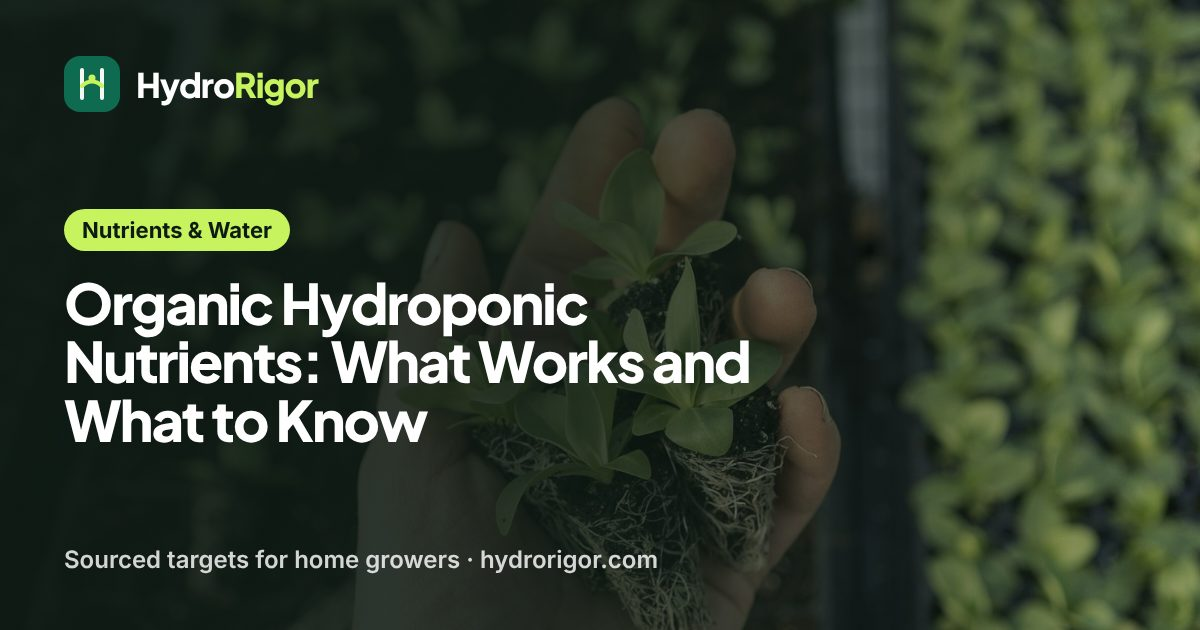
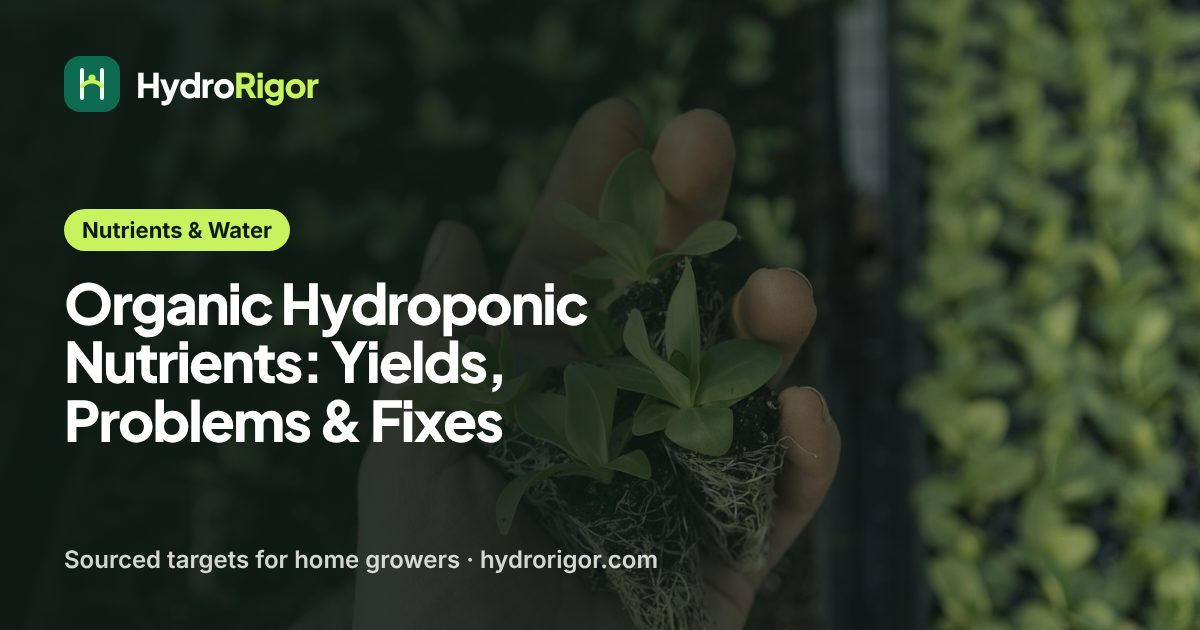
Rebuild organic hydroponic nutrients guide: yields, causes and fixes
Rebuilds /nutrients-water/organic-hydroponic-nutrients/ ("Organic Hydroponic
Nutrients: Yields, Problems & Fixes"): yields versus mineral nutrients from three
trials, the four causes and fixes, comparison table, setup steps, troubleshooting,
FAQ and two new diagrams. Adds Liu et al. 2025 and Purdue HO-309-W, and records
figures for the Alneyadi et al. 2024 study. Ticks queue item 20.

Claude-Session: https://claude.ai/code/session_011zSWQx5QZWaYdCfd2Qc4HU

Changed region(s): [[0.0308, 0.5429, 0.6475, 0.7238]]

diff --git a/src/data/editorial-sources/m06.ts b/src/data/editorial-sources/m06.ts
@@ -300,11 +300,11 @@ export const m06EditorialSources = [
   {
     id: 'psu-organic-nutrient-study',
     title: 'Organic-based nutrient solutions for sustainable vegetable production in a zero-runoff soilless growing system',
-    publisher: 'Penn State Research Portal',
+    publisher: 'Journal of Agriculture and Food Research 15:101035 (Alneyadi, Almheiri, Tzortzakis, Di Gioia, Ahmed; UAE University, Cyprus University of Technology, Penn State, 2024), doi 10.1016/j.jafr.2024.101035, via Penn State Research Portal',
     url: 'https://pure.psu.edu/en/publications/organic-based-nutrient-solutions-for-sustainable-vegetable-produc/',
-    accessedDate: '2026-09-12',
+    accessedDate: '2026-11-15',
     sourceType: 'university-research',
-    locator: 'Peer-reviewed study abstract; crop- and system-specific organic-solution comparison',
+    locator: "Sec. 2.1: romaine lettuce 'Parris Island cos', 60 days, zero-runoff Dutch bucket system (no pumps, 100 L tank, 40 cm pots of 25 L perlite), four liquid organic fertilizers (fish-based, humic-based, amino/alginic) versus a chemical control; all solutions set to EC 2.0 mS/cm (checked every 2 days) and pH 5.5–5.8 (adjusted three times a week). Abstract: shoot fresh weight 175.1 g control, 159.8 g fish-based and 157.9 g alginic-based, other organic solutions lower; all organic solutions gave fewer leaves, smaller leaf area, shorter plants and less fresh biomass; leaf nitrate 3.2–8.7 mg/kg DW organic versus 259.8 inorganic. Table 2: leaf calcium 11.90 mg/g control versus 4.58–6.87 organic; magnesium 2.88 versus 1.43–2.01. Table 4: phenolics 3.22–3.36 g GAE/100 g DW in two organic treatments versus 2.28 inorganic. Sec. 3.5: lower biomass attributed to lower availability of Ca, K and Mg; mineralization must match crop demand",
   },
   {
     id: 'masterblend-mixing-instructions',
@@ -656,6 +656,24 @@ export const m06EditorialSources = [
     accessedDate: '2026-11-07',
     sourceType: 'university-research',
     locator: 'Home bottle method: 4-litre plastic bottle, 7.5-cm net pot, lower 3 cm of the pot in the solution at the start; 5 g of 10-8-22 hydroponic fertilizer in 4 L gives EC 1.5 mS; lettuce ready about 6 weeks from seeding; level usually drops 15–25 cm; a 200-gram lettuce plant uses about 3–4 L; no solution added during the crop; raising the level more than 2 cm after the air gap forms may injure plants; cover or darken the bottle against algae; bottle method suits only short crops like lettuce',
+  },
+  {
+    id: 'liu-organic-nft-lettuce-2025',
+    title: 'Intermittent Flow Alleviated Root Zone Stress and Increased Organic Lettuce Yield in Nutrient Film Technique',
+    publisher: 'HortScience 60(7):1208–1217 (Liu, Masabni, Niu; Texas A&M AgriLife Research, 2025), doi 10.21273/HORTSCI18623-25',
+    url: 'https://journals.ashs.org/downloadpdf/view/journals/hortsci/60/7/article-p1208.pdf',
+    accessedDate: '2026-11-07',
+    sourceType: 'university-research',
+    locator: 'Abstract: organic lettuce often yields less than conventional hydroponics; fresh weight rose 71% as the no-flow period went from 0 to 105 min. Results: best organic scheme (15 min on / 105 min off) reached 40.3% of inorganic (Hoagland) shoot fresh weight, 15/45 reached 32.0%, continuous flow 23.5%; organic solutions held 91–214 mg/L ammonium and 43–103 mg/L nitrite versus about 1 mg/L each inorganic, with nitrite as low as 5 mg/L cited as harmful to lettuce; biofilm coated roots most under continuous flow and likely competed for oxygen; a microbial inoculant at 3.13 mL/L did not help and reduced growth; the organic fertilizer supplied about 3.18 mg/L each of Ca and Mg against cited targets of 200–300 mg/L Ca and 30–50 mg/L Mg; shoot Ca 0.29% organic versus 1.23% inorganic, Mg 0.17% versus 0.35%; pH set to 6.5 weekly. Discussion: use intermittent flow with longer off periods, aerate, consider biofilters, supplement Ca and Mg; intermittent flow also saved pump energy',
+  },
+  {
+    id: 'purdue-lettuce-ec-ho309',
+    title: 'Optimal Fertilizer Solution Concentration for Hydroponic Lettuce Production (HO-309-W)',
+    publisher: 'Purdue Extension (A. Miller, P. Langenhoven, K. Nemali), March 2020',
+    url: 'https://www.extension.purdue.edu/extmedia/HO/HO-309-W.pdf',
+    accessedDate: '2026-11-15',
+    sourceType: 'university-extension',
+    locator: 'Mineral-fertilizer trial: 24 lettuce varieties in NFT and CFT at EC 1.3, 2.0, 2.9 and 3.9 dS/m, harvested after 4 weeks; growth higher at 1.3 and 2.0 and lower at 2.9 and 3.9 (osmotic stress); optimal EC unaffected by system or variety; recommends EC 1.3 dS/m for lettuce in both systems. No organic fertilizers tested',
   },
 ] as const satisfies readonly M06EditorialSource[];
 

diff --git a/src/data/m06-content.ts b/src/data/m06-content.ts
@@ -32,7 +32,7 @@ const items = [
   [12, 'articles', 'crops', 'Hydroponic Tomato Seeds: Best Varieties & How to Start Them', 'hydroponic-tomato-seeds', 'transactional research', 'hydroponic tomatoes seeds', 'VERIFIED_2026-09-12', 480, 16, ['tennessee-fruiting-crops', 'ifas-tomato-cultivars', 'usu-indoor-tomatoes', 'ifas-micro-gold-hs987', 'scott-micro-tina-2000', 'aces-greenhouse-tomato-anr2955', 'utk-trust-tomato-density-2012', 'purdue-supplemental-light-lettuce'], ['/tools/nutrient-mixing-calculator/']],
   [13, 'articles', 'nutrients', "Hydroponic Nutrients: pH, EC & Mixing Guide for Beginners", 'hydroponic-nutrients', 'informational', 'hydroponic nutrients', 'VERIFIED_2026-09-12', 3600, 22, ['psu-plant-nutrition', 'mu-nutrient-solutions', 'osu-ph-ec-guide', 'ua-strawberry-irrigation'], ['/tools/ph-ec-targets/', '/tools/nutrient-mixing-calculator/']],
   [14, 'articles', 'nutrients', 'Hydroponic Nutrient Solution: ppm, EC, pH & When to Change', 'hydroponic-nutrient-solution', 'transactional research', 'hydroponic nutrients solution', 'VERIFIED_2026-09-12', 720, 25, ['mu-nutrient-solutions', 'psu-nutrient-programs', 'psu-plant-nutrition', 'osu-ph-ec-guide', 'ifas-hydroponic-tomato-formulation', 'ohio-state-tomato-nutrient-solution', 'tennessee-fruiting-crops', 'uky-hydroponic-lettuce', 'uky-monitoring-ph-ec', 'ifas-lettuce-small-systems', 'vt-system-crop-comparisons', 'sato-modified-nft-2007', 'gomez-basil-small-scale-2020', 'ua-strawberry-irrigation', 'msstate-tomato-ph', 'msu-calibrate-ph-ec'], ['/tools/ph-ec-targets/', '/tools/nutrient-mixing-calculator/']],
-  [15, 'articles', 'nutrients', 'Organic Hydroponic Nutrients: What Works and What to Know', 'organic-hydroponic-nutrients', 'transactional research', 'hydroponic nutrients organic', 'VERIFIED_2026-09-12', 590, 20, ['usda-organic-certification', 'psu-organic-nutrient-study', 'mu-nutrient-solutions'], []],
+  [15, 'articles', 'nutrients', 'Organic Hydroponic Nutrients: Yields, Problems & Fixes', 'organic-hydroponic-nutrients', 'transactional research', 'hydroponic nutrients organic', 'VERIFIED_2026-09-12', 590, 20, ['usda-organic-certification', 'psu-organic-nutrient-study', 'liu-organic-nft-lettuce-2025', 'wortman-vertical-strawberry-2016', 'purdue-lettuce-ec-ho309', 'mu-nutrient-solutions'], []],
   [16, 'articles', 'best', 'Best Hydroponic Nutrients for Home Growers', 'hydroponic-nutrients-for-home-growers', 'commercial research', 'best hydroponic nutrients', 'METRIC_NOT_REVERIFIED', undefined, undefined, ['psu-nutrient-programs', 'mu-nutrient-solutions', 'psu-plant-nutrition'], ['/tools/nutrient-mixing-calculator/']],
   [17, 'articles', 'nutrients', 'Powder vs Liquid Hydroponic Nutrients: Which Should You Buy?', 'powder-vs-liquid-hydroponic-nutrients', 'commercial research', 'hydroponic nutrients powder', 'METRIC_NOT_REVERIFIED', undefined, undefined, ['psu-nutrient-programs', 'mu-nutrient-solutions'], ['/tools/nutrient-mixing-calculator/']],
   [18, 'articles', 'nutrients', 'Hydroponic Nutrients for Vegetables: A Feeding Guide', 'hydroponic-nutrients-for-vegetables', 'transactional research', 'hydroponic nutrients vegetables', 'METRIC_NOT_REVERIFIED', undefined, undefined, ['psu-plant-nutrition', 'mu-nutrient-solutions', 'vt-system-crop-comparisons'], ['/tools/ph-ec-targets/', '/tools/nutrient-mixing-calculator/']],

diff --git a/.agent/state/CURRENT_HANDOFF.md b/.agent/state/CURRENT_HANDOFF.md
@@ -1,6 +1,6 @@
 # Current Handoff
 
-Updated: 2026-11-13
+Updated: 2026-11-15
 
 ## State
 
@@ -84,6 +84,7 @@ Updated: 2026-11-13
 Guides published by automated runs under `HydroRigor Editorial`. When Najeeb has read one
 and approves, switch its byline to `Najeeb`.
 
+- `/nutrients-water/organic-hydroponic-nutrients/` — "Organic Hydroponic Nutrients: Yields, Problems & Fixes" (rebuild, 2026-11-15; Pinterest row `docs/marketing/pinterest/pins-organic-nutrients-2026-12-02.csv`, upload by Dec 2). Direct answer with yields versus mineral nutrients from three trials (Dutch bucket lettuce about 90–91%, tower strawberries about 15% less, NFT lettuce 23.5–40.3%), the four causes (ammonium and nitrite, biofilm and oxygen, calcium and magnesium shortfall, inoculant did not help) and fixes, comparison table, nine-step setup, troubleshooting and FAQ; two new diagrams (yield chart; problems and fixes). New sources: Alneyadi et al. 2024 (the Penn State-listed study, now with figures read from the open-access PDF on 2026-11-15; the 91%/90% are labelled arithmetic), Liu et al. 2025 HortScience (from the research pack), Purdue HO-309-W. Gaps stated on the page: no organic-specific EC target, no trial of organic nutrients in DWC or Kratky, no brand comparison. A 2022 Ninth Circuit ruling upholding USDA organic certification of hydroponic operations was found (Food Dive, 2022-09-23) but left out because it is not a university source; add it if Najeeb wants a news citation. Photo kept (seedling roots in hand).
 - `/crops/hydroponic-tomato-seeds/` — "Hydroponic Tomato Seeds: Best Varieties & How to Start Them" (rebuild, 2026-11-14; Pinterest row `docs/marketing/pinterest/pins-tomato-seeds-2026-12-01.csv`, upload by Dec 1). Seed chosen by mature size (micro-dwarf, compact, determinate, indeterminate), University of Florida micro-dwarf trial table, packet codes, seed-starting steps and timeline; two new sources (UF/IFAS HS987, HortScience 2000).
 - `/best/hydroponic-ph-meter/` — "pH Meter for Hydroponics: How to Choose & Calibrate" (new guide, plan ID 66, 2026-11-14). Written from the research pack only (web fetches were not available in this run): feature checklist, two-point calibration with pH 7.01 and 4.01, calibration frequency, storage, troubleshooting; no products or current prices; gaps stated (no accuracy or probe-life figures in the sources). Reuses the measuring-beaker photo until a pH meter photo exists.
 - `/systems/kratky-hydroponics/` — "Kratky Hydroponics: No-Pump Setup, Air Gap & Crops" (new guide, plan ID 28, 2026-11-13). Written from the research pack: no pump, 1–2 gal of solution per lettuce plant (UF/IFAS 1–1.5; Kratky VC-1 1.5–2), EC 1.5 and pH 5.5–6.5, pot bottom ½–1 in in the solution, no topping up (emergency ½–1 in only), harvest 4–6 weeks after transplanting; a "where the sources differ" table; two new diagrams (air gap over time; solution per plant). Two new sources registered (Kratky VC-1, 2010; Kratky, Acta Hort. 648, 2004), figures taken from the pack (read 2026-11-07), not re-read in this run. Gaps stated on the page: no Kratky figures for basil or herbs, no tomato volumes. Photo: registry lettuce in net pots (no Kratky bucket photo yet). Linked from five guides. Opened while GitHub Actions was blocked by the account billing problem, so it is unmerged until CI can run.

diff --git a/.agent/state/CURRENT_MILESTONE.md b/.agent/state/CURRENT_MILESTONE.md
@@ -87,7 +87,7 @@ impressions in 28 days).
         Hydroponics: How to Choose & Calibrate"). "ph meter hydroponics" 590 / 15. No named picks;
         add them only after an affiliate programme is approved.
 19. [x] `/crops/hydroponic-tomato-seeds/` — rebuilt 2026-11-14 ("Hydroponic Tomato Seeds: Best Varieties & How to Start Them"). hydroponic tomatoes seeds (480, difficulty 16).
-20. [ ] `/nutrients-water/organic-hydroponic-nutrients/` — rebuild. "organic hydroponic nutrients" 390 / 18.
+20. [x] `/nutrients-water/organic-hydroponic-nutrients/` — rebuilt 2026-11-15 ("Organic Hydroponic Nutrients: Yields, Problems & Fixes"). "organic hydroponic nutrients" 390 / 18.
 21. [ ] `/systems/smart-indoor-hydroponic-systems/` — rebuild ("click and grow" 5,400 / 35 is the
         nearest brand demand). Move to the top of the queue if Click & Grow approves the owner.
 22. [ ] Remaining launch-guide rebuilds, one per run: `/nutrients-water/how-to-mix-hydroponic-nutrients/`
